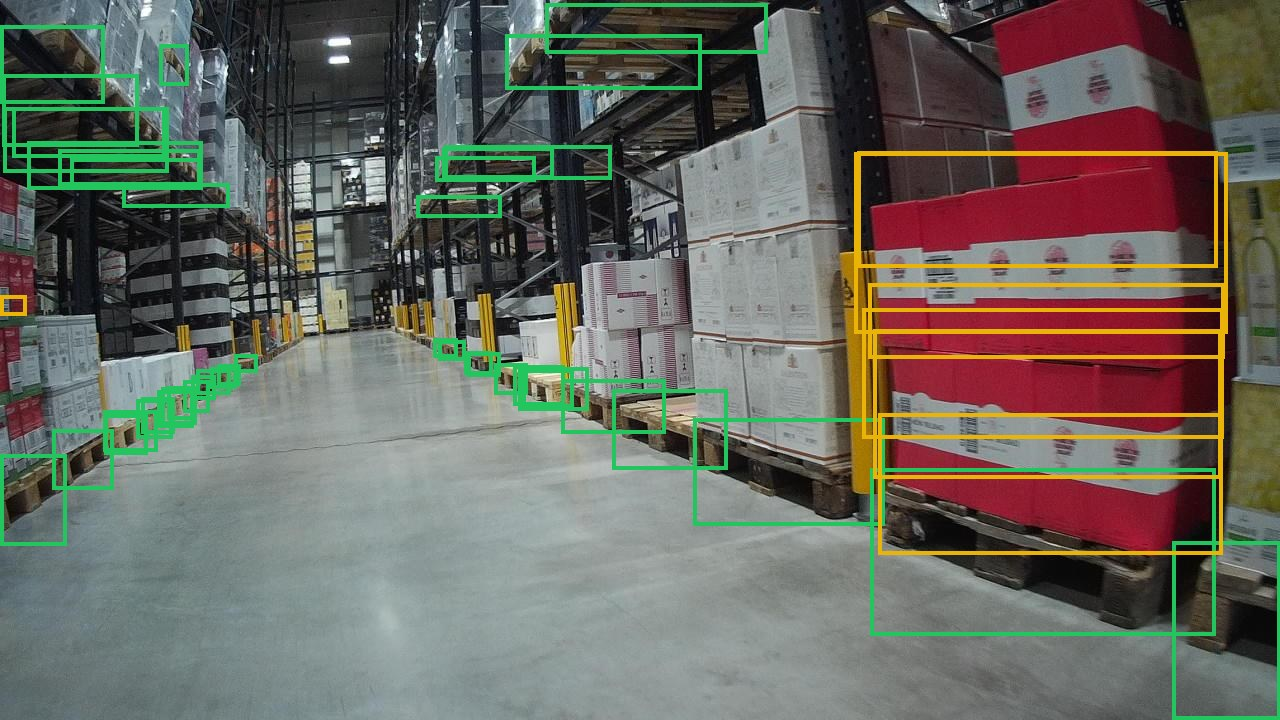
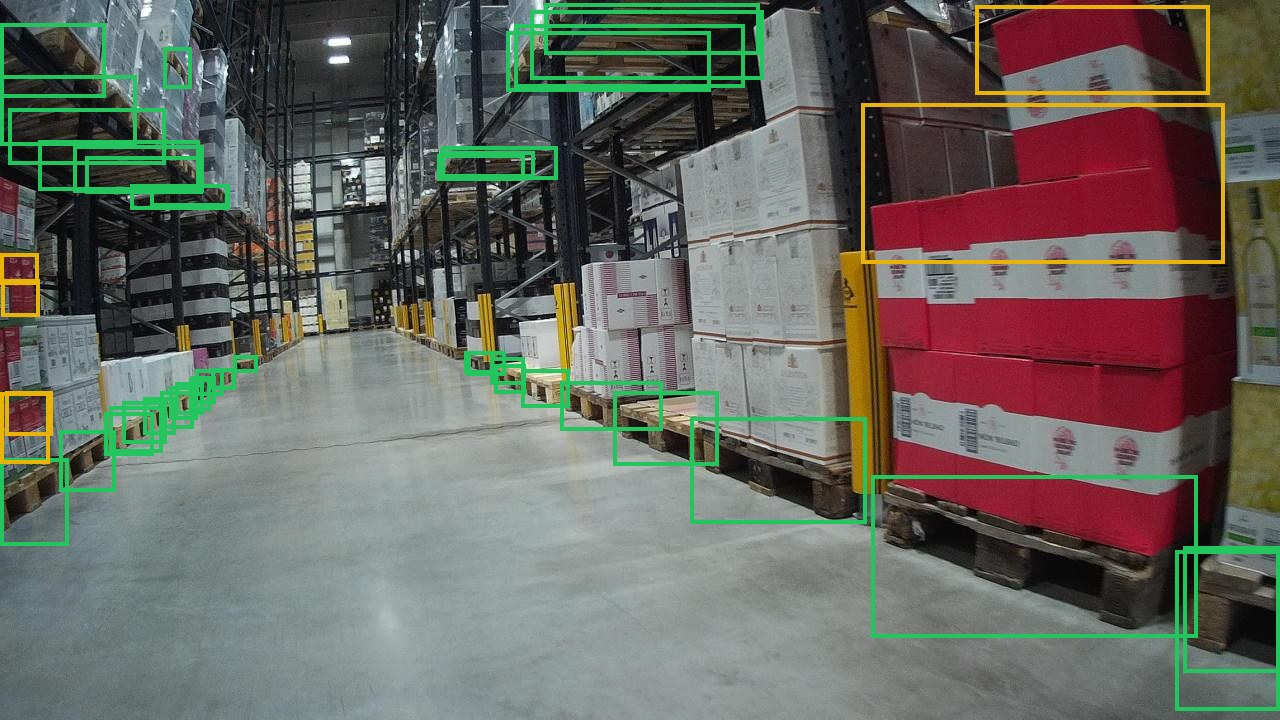
Ship the final detector in the browser demo and show ground truth
The verify tab shows each photo's annotated pallet count and states
whether a flag is real or caused by detector error.

diff --git a/demo/web/app.js b/demo/web/app.js
@@ -329,14 +329,29 @@ function updateVerdict() {
     );
   }
   lines.push(`Anomaly score ${result.anomaly_score.toFixed(2)} (weighted evidence, not a calibrated probability).`);
+  if (state.verify.custom) {
+    lines.push("Ground truth is unknown for your own photo.");
+  } else {
+    const truth = shipment.photo_annotated_pallets;
+    const paperworkRight = shipment.paperwork_error === 0;
+    const flagged = result.evidence.discrepancies.length > 0;
+    let check;
+    if (paperworkRight && !flagged) check = "the paperwork is right and the system agrees.";
+    else if (!paperworkRight && flagged) check = `the paperwork overstates the load by ${shipment.paperwork_error}, so the flag is real.`;
+    else if (paperworkRight && flagged) check = `the paperwork is right, so this flag is a false alarm caused by missed or extra detections.`;
+    else check = "the paperwork is wrong but the camera count happens to agree with it.";
+    lines.push(`<b>Ground truth:</b> the photo's LOCO annotation has ${truth} pallets; ${check}`);
+  }
   $("verdict-lines").innerHTML = lines.map((l) => `<li>${l}</li>`).join("");
+  $("annotated-count").textContent = state.verify.custom ? "–" : shipment.photo_annotated_pallets;
 }
 
-async function runVerify(image) {
+async function runVerify(image, custom = false) {
   $("verify-status").textContent = "Counting pallets…";
   const run = await infer(image);
   state.verify.image = image;
   state.verify.raw = run.raw;
+  state.verify.custom = custom;
   updateVerdict();
   $("verify-status").textContent = timing(run);
 }
@@ -361,7 +376,7 @@ async function setupVerify() {
     const file = event.target.files[0];
     if (!file || !state.verify.shipment) return;
     const url = URL.createObjectURL(file);
-    await runVerify(await loadImage(url));
+    await runVerify(await loadImage(url), true);
     URL.revokeObjectURL(url);
   });
 }

diff --git a/demo/web/index.html b/demo/web/index.html
@@ -127,6 +127,7 @@
         <div class="counter">
           <div><b id="observed-count">–</b><span>pallets counted</span></div>
           <div><b id="observed-conf">–</b><span>mean confidence</span></div>
+          <div><b id="annotated-count">–</b><span>annotated (ground truth)</span></div>
         </div>
         <label class="upload">Use your own photo<input id="verify-upload" type="file" accept="image/*"></label>
       </div>
@@ -138,10 +139,11 @@
       <input id="review-threshold" type="range" min="0.2" max="0.9" step="0.01" value="0.6" aria-label="Review threshold for detector confidence">
       <p class="note">Same rules as the Python service (<code>reconciliation/rules.py</code>, ported to
         JavaScript and checked against shared test cases). The 0.60 default was set on generated data;
-        the real-data detector averages about 0.4 on these photos, so the policy sends its counts to a
+        the real-data detector averages about 0.4 to 0.5 on these photos, so the policy sends its counts to a
         person instead of trusting them. Lower the threshold to see the automatic decision. Pallets are
         counted at <span data-metric="count_threshold" data-digits="2">0.25</span>, the threshold chosen
-        on validation data. Documents are synthetic and paired with real LOCO test photos for illustration.</p>
+        on validation data. Documents are synthetic: each one lists the photo's annotated pallet count,
+        except shipment 2, whose paperwork overstates the load by three pallets.</p>
     </div>
   </section>
 
